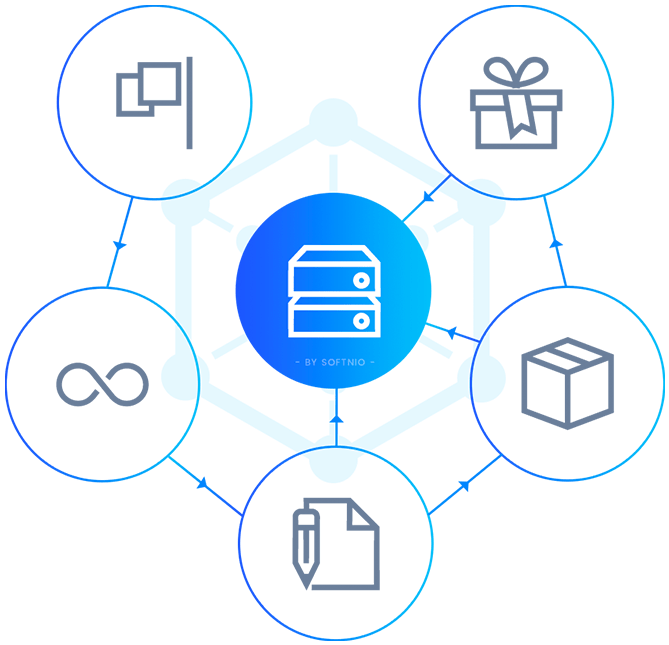
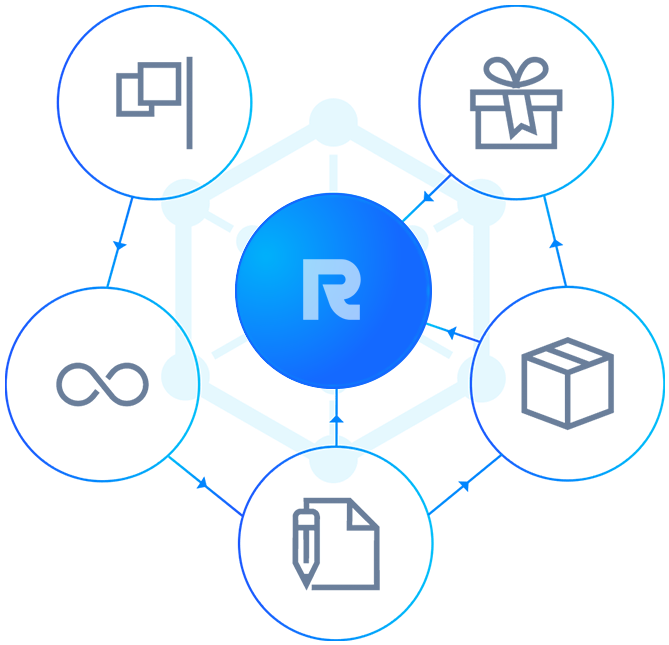
Added wallet section

Changed region(s): [[0.3288, 0.2791, 0.6577, 0.6202]]

diff --git a/index.html b/index.html
@@ -136,6 +136,52 @@
                 </div>
             </section>
             <!-- // -->
+            <section class="section section-contact bg-theme-dark tc-light" id="blog">
+                <div class="container">
+                    <div class="section-head text-center wide-auto-sm">
+                        <h2 class="title title-s4 animated" data-animate="fadeInUp" data-delay=".1" title="features">Features</h2>
+                    </div><!-- .section-head @e -->
+                    <!-- Block @s -->
+                    <div class="nk-block nk-block-blog">
+                        <div class="row justify-content-center">
+                            <div class="col-lg-4 col-sm-9">
+                                <div class="blog blog-s2 animated" data-animate="fadeInUp" data-delay=".2">
+                                    <div class="blog-photo">
+                                        <img src="images/custom/docker.png" alt="blog-thumb">
+                                    </div>
+                                    <div class="blog-text">
+                                        <h4 class="title title-sm"><a>Dockerized</a></h4>
+                                        <p>Our dockerized implementation allows to easily launch the application and specify different parameters.</p>
+                                    </div>
+                                </div><!-- .blog -->
+                            </div><!-- .col -->
+                            <div class="col-lg-4 col-sm-9">
+                                <div class="blog blog-s2 animated" data-animate="fadeInUp" data-delay=".3">
+                                    <div class="blog-photo">
+                                        <img src="images/custom/memory.png" alt="blog-thumb">
+                                    </div>
+                                    <div class="blog-text">
+                                        <h4 class="title title-sm"><a>In-Memory & Durable Storage</a></h4>
+                                        <p>Storing all meta-data and ledger in memory inside the replica for low-latency access while offering deep integration with LevelDB and RocksDB for added durability supprt.</p>
+                                    </div>
+                                </div><!-- .blog -->
+                            </div><!-- .col -->
+                            <div class="col-lg-4 col-sm-9">
+                                <div class="blog blog-s2 animated" data-animate="fadeInUp" data-delay=".4">
+                                    <div class="blog-photo">
+                                        <img src="images/custom/secure.png" alt="blog-thumb">
+                                    </div>
+                                    <div class="blog-text">
+                                        <h4 class="title title-sm"><a>Secure Authentication</a></h4>
+                                        <p>NIST recommened cryptographic constructs to prevent malicious attacks.</p>
+                                    </div>
+                                </div><!-- .blog -->
+                            </div><!-- .col -->
+                        </div><!-- .row -->
+                    </div><!-- .block @e --> 
+                </div>
+            </section>
+            <!-- // -->
             <section class="section bg-theme-dark-alt tc-light py-0 ov-h">
                 <div class="container">
                     <!-- Block @s -->
@@ -167,34 +213,34 @@
                             <span class="line-1"></span><span class="line-2"></span><span class="line-3"></span><span class="line-4"></span>
                             <span class="line-5"></span><span class="line-6"></span><span class="line-7"></span><span class="line-8"></span>
                         </div>
-                        <h2 class="title title-s4 animated" data-animate="fadeInUp" data-delay=".1" title="APPS">The ICO App</h2>
-                        <p class="animated" data-animate="fadeInUp" data-delay=".2">The Cryptocurrency industry is one of the Lorem ipsum dolor sit amet, consectetur adipiscing elit, sed do eiusmod tempor incididunt ut labore et dolore magna aliqua.</p>
+                        <h2 class="title title-s4 animated" data-animate="fadeInUp" data-delay=".1" title="Wallet">ResVault</h2>
+                        <p class="animated" data-animate="fadeInUp" data-delay=".2">ResVault is a streamlined Chrome extension designed as a wallet for ResilientDB. It facilitates data transactions, user account management, and secure communication via the ResilientDB GraphQL server.</p>
                     </div>
                     <!-- Block @s -->
                     <div class="nk-block nk-block-text-wrap">
                         <div class="row align-items-center justify-content-center justify-content-md-between gutter-vr-30px">
                             <div class="col-mb-9 col-sm-7 col-md-6">
                                 <div class="nk-block-img animated" data-animate="fadeInUp" data-delay=".3">
-                                    <img src="images/dark/gfx-z-c.png" alt="app">
+                                    <img src="images/light/gfx-z-c.png" alt="app">
                                 </div>
                             </div>
                             <div class="col-sm-10 col-md-6 col-lg-5">
                                 <div class="nk-block-text ms-lg-3 ms-xl-0">
-                                    <p class="animated" data-animate="fadeInUp" data-delay=".4">Lorem ipsum dolor sit amet, consectetur adipis cing elit, sed do eiusmod tempor incididunt ut labore et dolore magna aliqua. Ut enim ad minim veniam, quis nostrud exerc itation ullamco laboris nisi commodo consequat.</p>
+                                    <p class="animated" data-animate="fadeInUp" data-delay=".4">With enhanced transaction logging features, ResVault offers a user-friendly and efficient interface for managing ResilientDB interactions.</p>
                                     <ul class="list list-dot pdb-r">
-                                        <li class="animated" data-animate="fadeInUp" data-delay=".5">Crypto-news curation</li>
-                                        <li class="animated" data-animate="fadeInUp" data-delay=".55">Natural Language Understanding</li>
-                                        <li class="animated" data-animate="fadeInUp" data-delay=".65">Wallet aggregation</li>
-                                        <li class="animated" data-animate="fadeInUp" data-delay=".7">Professional Network</li>
-                                        <li class="animated" data-animate="fadeInUp" data-delay=".75">No more expensive fees</li>
+                                        <li class="animated" data-animate="fadeInUp" data-delay=".5">Register New Account</li>
+                                        <li class="animated" data-animate="fadeInUp" data-delay=".55">Remove Existing Account</li>
+                                        <li class="animated" data-animate="fadeInUp" data-delay=".65">User Authentication</li>
+                                        <li class="animated" data-animate="fadeInUp" data-delay=".7">Process Transactions</li>
+                                        <li class="animated" data-animate="fadeInUp" data-delay=".75">Log Transaction History</li>
                                     </ul>
                                     <ul class="btn-grp justify-content-center justify-content-md-start">
-                                        <li class="animated" data-animate="fadeInUp" data-delay=".85"><a href="#" class="btn btn-grad btn-round btn-md">Get the app now</a></li>
+                                        <li class="animated" data-animate="fadeInUp" data-delay=".85"><a href="https://github.com/apache/incubator-resilientdb-resvault/releases" class="btn btn-grad btn-round btn-md">Get ResVault for &nbsp;
+                                            <img loading="lazy" decoding="async" src="https://images.ctfassets.net/9sy2a0egs6zh/6jY0xZYtP18iUGOuL7qsEa/255fab1bec903c6a079c5b171afa9504/Chrome_Logo.svg" alt="Download for Chrome" width="28px" height="28px" class="Image__StyledImage-sc-gdjqpy-2 ecLpVZ" style="border-radius: 50%; box-shadow: 0 0 0 1px white inset; border: solid white 1.5px;">
+                                        </a></li>
                                         <li class="animated" data-animate="fadeInUp" data-delay=".95">
                                             <ul class="btn-grp gutter-15px">
-                                                <li><a href="#"><em class="fab fa-apple"></em></a></li>
-                                                <li><a href="#"><em class="fab fa-android"></em></a></li>
-                                                <li><a href="#"><em class="fab fa-windows"></em></a></li>
+                                                <li><a href="https://github.com/apache/incubator-resilientdb-resvault"><em class="fab fa-github"></em></a></li>
                                             </ul>
                                         </li>
                                     </ul>
@@ -307,56 +353,125 @@
                         <div class="roadmap-list animated" data-animate="fadeInUp" data-delay=".2">
                             <div class="roadmap-item roadmap-item-sm roadmap-done">
                                 <div class="roadmap-innr">
-                                    <h6 class="roadmap-title roadmap-title-s2">March 2022</h6>
-                                    <p>Start of the ICO Crypto Platform Development.</p>
+                                    <h6 class="roadmap-title roadmap-title-s2">January 2018</h6>
+                                    <p><a href="https://www.youtube.com/watch?v=whgGTSQttds&feature=emb_logo">ResilientDB Vision</a></p>
                                 </div>
                             </div><!-- .roadmap-item -->
                             <div class="roadmap-item roadmap-done">
                                 <div class="roadmap-innr">
-                                    <h6 class="roadmap-title roadmap-title-s2">June 2022</h6>
-                                    <p>Over 100 merchants on site</p>
+                                    <h6 class="roadmap-title roadmap-title-s2">April 2018</h6>
+                                    <p>Optimal Batching</p>
                                 </div>
                             </div>
                             <div class="roadmap-item roadmap-item-lg">
                                 <div class="roadmap-innr">
-                                    <h6 class="roadmap-title roadmap-title-s2">June 2022</h6>
-                                    <p>Launched of mobile Apps</p>
+                                    <h6 class="roadmap-title roadmap-title-s2">September 2018</h6>
+                                    <p>Deep Pipeline Architecture</p>
                                 </div>
                             </div>
                             <div class="roadmap-item">
                                 <div class="roadmap-innr">
-                                    <h6 class="roadmap-title roadmap-title-s2">August 2022</h6>
-                                    <p>ICO preparation &amp; Press Tour</p>
+                                    <h6 class="roadmap-title roadmap-title-s2">December 2018</h6>
+                                    <p><a href="https://dl.acm.org/doi/10.1145/3274808.3274810">Coordination-free Concurrency Control</a></p>
                                 </div>
                             </div>
                             <div class="roadmap-item roadmap-item-sm">
                                 <div class="roadmap-innr">
-                                    <h6 class="roadmap-title roadmap-title-s2">October 2022</h6>
-                                    <p>Start Token Sale Round (1)</p>
+                                    <h6 class="roadmap-title roadmap-title-s2">March 2019</h6>
+                                    <p><a href="https://www.morganclaypool.com/doi/abs/10.2200/S00896ED1V01Y201901DTM058">Advanced Transaction Processing Textbook</a></p>
                                 </div>
                             </div>
                             <div class="roadmap-item">
+                                <div class="roadmap-innr">
+                                    <h6 class="roadmap-title roadmap-title-s2">May 2019</h6>
+                                    <p>Out-of-order Communication</p>
+                                </div>
+                            </div>
+                            <div class="roadmap-item roadmap-item-lg">
+                                <div class="roadmap-innr">
+                                    <h6 class="roadmap-title roadmap-title-s2">July 2019</h6>
+                                    <p>De-coupled Execution</p>
+                                </div>
+                            </div>
+                            <div class="roadmap-item">
+                                <div class="roadmap-innr">
+                                    <h6 class="roadmap-title roadmap-title-s2">September 2019</h6>
+                                    <p>Off-Chain Management</p>
+                                </div>
+                            </div>
+                            <div class="roadmap-item roadmap-item-sm">
+                                <div class="roadmap-innr">
+                                    <h6 class="roadmap-title roadmap-title-s2">November 2019</h6>
+                                    <p>Release V1.0</p>
+                                </div>
+                            </div>
+                            <div class="roadmap-item">
+                                <div class="roadmap-innr">
+                                    <h6 class="roadmap-title roadmap-title-s2">Octorber 2022</h6>
+                                    <p>Blockchain usage announcement for global Network</p>
+                                </div>
+                            </div>
+                            <div class="roadmap-item roadmap-item-lg">
                                 <div class="roadmap-innr">
                                     <h6 class="roadmap-title roadmap-title-s2">December 2022</h6>
-                                    <p>Partnership for the future EcoSystem</p>
+                                    <p>Operational Launch United States to general</p>
+                                </div>
+                            </div>
+                        </div>
+
+                        <div class="roadmap-list animated" data-animate="fadeInUp" data-delay=".2">
+                            <div class="roadmap-item roadmap-item-sm roadmap-done">
+                                <div class="roadmap-innr">
+                                    <h6 class="roadmap-title roadmap-title-s2">January 2018</h6>
+                                    <p><a href="https://www.youtube.com/watch?v=whgGTSQttds&feature=emb_logo">ResilientDB Vision</a></p>
+                                </div>
+                            </div><!-- .roadmap-item -->
+                            <div class="roadmap-item roadmap-done">
+                                <div class="roadmap-innr">
+                                    <h6 class="roadmap-title roadmap-title-s2">April 2018</h6>
+                                    <p>Optimal Batching</p>
                                 </div>
                             </div>
                             <div class="roadmap-item roadmap-item-lg">
                                 <div class="roadmap-innr">
-                                    <h6 class="roadmap-title roadmap-title-s2">January 2022</h6>
-                                    <p>Our team set-up and commercial preparation</p>
+                                    <h6 class="roadmap-title roadmap-title-s2">September 2018</h6>
+                                    <p>Deep Pipeline Architecture</p>
                                 </div>
                             </div>
                             <div class="roadmap-item">
                                 <div class="roadmap-innr">
-                                    <h6 class="roadmap-title roadmap-title-s2">May 2022</h6>
-                                    <p>Priority opening for Token holder</p>
+                                    <h6 class="roadmap-title roadmap-title-s2">December 2018</h6>
+                                    <p><a href="https://dl.acm.org/doi/10.1145/3274808.3274810">Coordination-free Concurrency Control</a></p>
                                 </div>
                             </div>
                             <div class="roadmap-item roadmap-item-sm">
                                 <div class="roadmap-innr">
-                                    <h6 class="roadmap-title roadmap-title-s2">June 2022</h6>
-                                    <p>Start Token Sale Round (2)</p>
+                                    <h6 class="roadmap-title roadmap-title-s2">March 2019</h6>
+                                    <p><a href="https://www.morganclaypool.com/doi/abs/10.2200/S00896ED1V01Y201901DTM058">Advanced Transaction Processing Textbook</a></p>
+                                </div>
+                            </div>
+                            <div class="roadmap-item">
+                                <div class="roadmap-innr">
+                                    <h6 class="roadmap-title roadmap-title-s2">May 2019</h6>
+                                    <p>Out-of-order Communication</p>
+                                </div>
+                            </div>
+                            <div class="roadmap-item roadmap-item-lg">
+                                <div class="roadmap-innr">
+                                    <h6 class="roadmap-title roadmap-title-s2">July 2019</h6>
+                                    <p>De-coupled Execution</p>
+                                </div>
+                            </div>
+                            <div class="roadmap-item">
+                                <div class="roadmap-innr">
+                                    <h6 class="roadmap-title roadmap-title-s2">September 2019</h6>
+                                    <p>Off-Chain Management</p>
+                                </div>
+                            </div>
+                            <div class="roadmap-item roadmap-item-sm">
+                                <div class="roadmap-innr">
+                                    <h6 class="roadmap-title roadmap-title-s2">November 2019</h6>
+                                    <p>Release V1.0</p>
                                 </div>
                             </div>
                             <div class="roadmap-item">
@@ -734,67 +849,6 @@
                         </ul>
                     </div>
                     <!-- Block @e -->
-                </div>
-            </section>
-            <!-- // -->
-            <section class="section section-contact bg-theme-dark tc-light" id="blog">
-                <div class="container">
-                    <div class="section-head text-center wide-auto-sm">
-                        <h2 class="title title-s4 animated" data-animate="fadeInUp" data-delay=".1" title="news">ICO Crypto News</h2>
-                    </div><!-- .section-head @e -->
-                    <!-- Block @s -->
-                    <div class="nk-block nk-block-blog">
-                        <div class="row justify-content-center">
-                            <div class="col-lg-4 col-sm-9">
-                                <div class="blog blog-s2 animated" data-animate="fadeInUp" data-delay=".2">
-                                    <div class="blog-photo">
-                                        <img src="images/blog/a.jpg" alt="blog-thumb">
-                                    </div>
-                                    <div class="blog-text">
-                                        <ul class="blog-meta">
-                                            <li><a href="#">12 Mar, 2022</a></li>
-                                            <li><a href="#">Blockchain</a></li>
-                                        </ul>
-                                        <h4 class="title title-sm"><a href="#">The Intersection with Blockchain.</a></h4>
-                                        <p>Blockchain Meets Energy Surplus of electrical energy is sometimes ut perspiciatis unde omnis iste natus...</p>
-                                    </div>
-                                </div><!-- .blog -->
-                            </div><!-- .col -->
-                            <div class="col-lg-4 col-sm-9">
-                                <div class="blog blog-s2 animated" data-animate="fadeInUp" data-delay=".3">
-                                    <div class="blog-photo">
-                                        <img src="images/blog/b.jpg" alt="blog-thumb">
-                                    </div>
-                                    <div class="blog-text">
-                                        <ul class="blog-meta">
-                                            <li><a href="#">12 Mar, 2022</a></li>
-                                            <li><a href="#">Blockchain</a></li>
-                                        </ul>
-                                        <h4 class="title title-sm"><a href="#">The Intersection with Blockchain.</a></h4>
-                                        <p>Blockchain Meets Energy Surplus of electrical energy is sometimes ut perspiciatis unde omnis iste natus...</p>
-                                    </div>
-                                </div><!-- .blog -->
-                            </div><!-- .col -->
-                            <div class="col-lg-4 col-sm-9">
-                                <div class="blog blog-s2 animated" data-animate="fadeInUp" data-delay=".4">
-                                    <div class="blog-photo">
-                                        <img src="images/blog/c.jpg" alt="blog-thumb">
-                                    </div>
-                                    <div class="blog-text">
-                                        <ul class="blog-meta">
-                                            <li><a href="#">12 Mar, 2022</a></li>
-                                            <li><a href="#">Blockchain</a></li>
-                                        </ul>
-                                        <h4 class="title title-sm"><a href="#">The Intersection with Blockchain.</a></h4>
-                                        <p>Blockchain Meets Energy Surplus of electrical energy is sometimes ut perspiciatis unde omnis iste natus...</p>
-                                    </div>
-                                </div><!-- .blog -->
-                            </div><!-- .col -->
-                        </div><!-- .row -->
-                    </div><!-- .block @e -->
-                    <div class="text-center pdt-r animated" data-animate="fadeInUp" data-delay=".5">
-                        <a href="#" class="link link-primary link-uc link-animate"><span>Read all News</span> <em class="link-icon ti ti-angle-right"></em></a>
-                    </div>
                 </div>
             </section>
             <!-- // -->

diff --git a/assets/css/style-dark.css b/assets/css/style-dark.css
@@ -6346,7 +6346,7 @@ ul.progress-info { display: flex; justify-content: space-between; }
 
 .bg-theme-alt > .sap-text span { background: #10122d; }
 
-.blog { background: #fff; border-radius: 6px; box-shadow: 0 5px 45px 0 rgba(18, 24, 58, 0.08); margin-bottom: 30px; }
+.blog { background: #fff; border-radius: 6px; box-shadow: 0 5px 45px 0 rgba(18, 24, 58, 0.08); margin-bottom: 30px; text-align: center; height: 500px; }
 
 .tc-light .blog { background: #10122d; }
 
